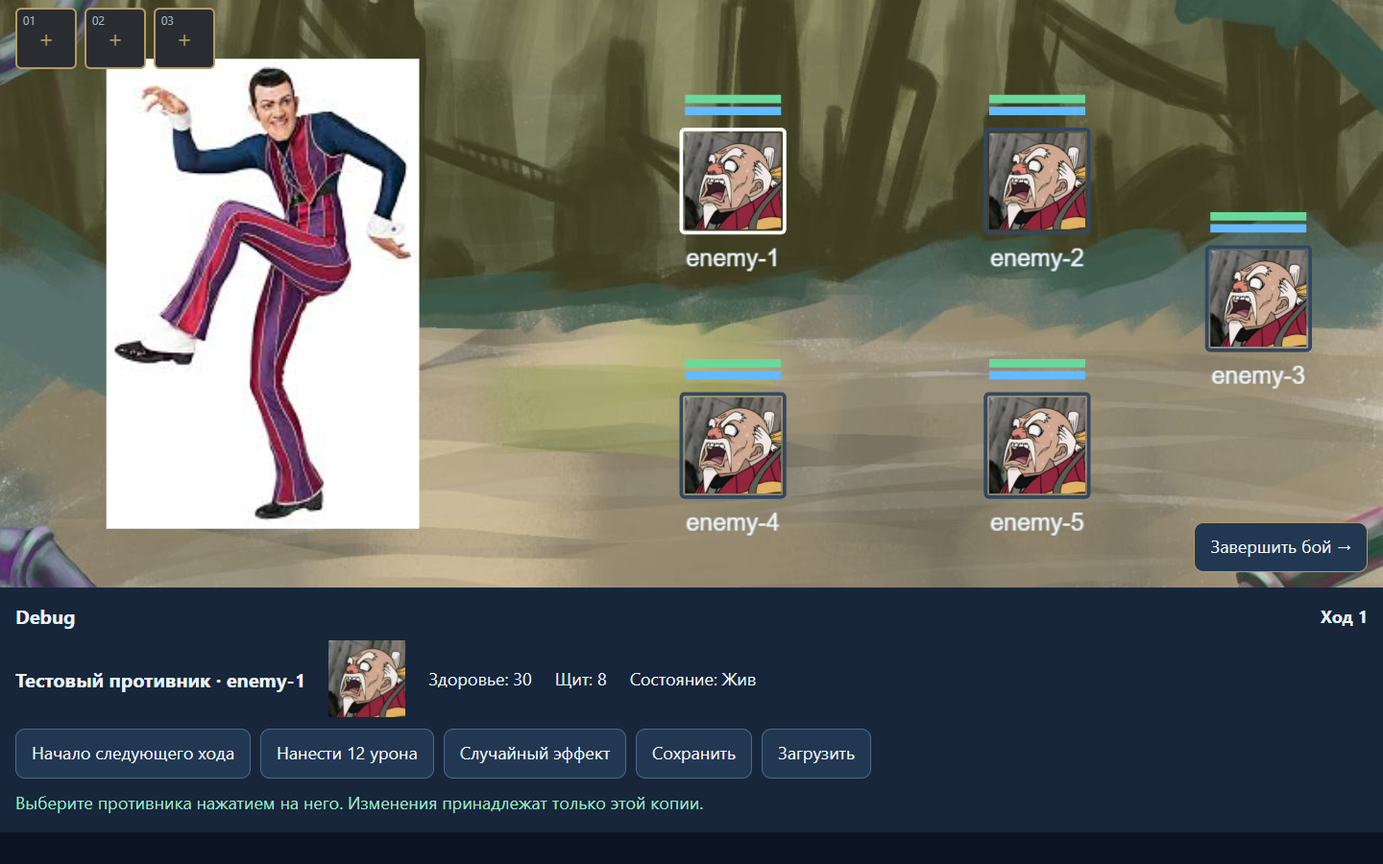
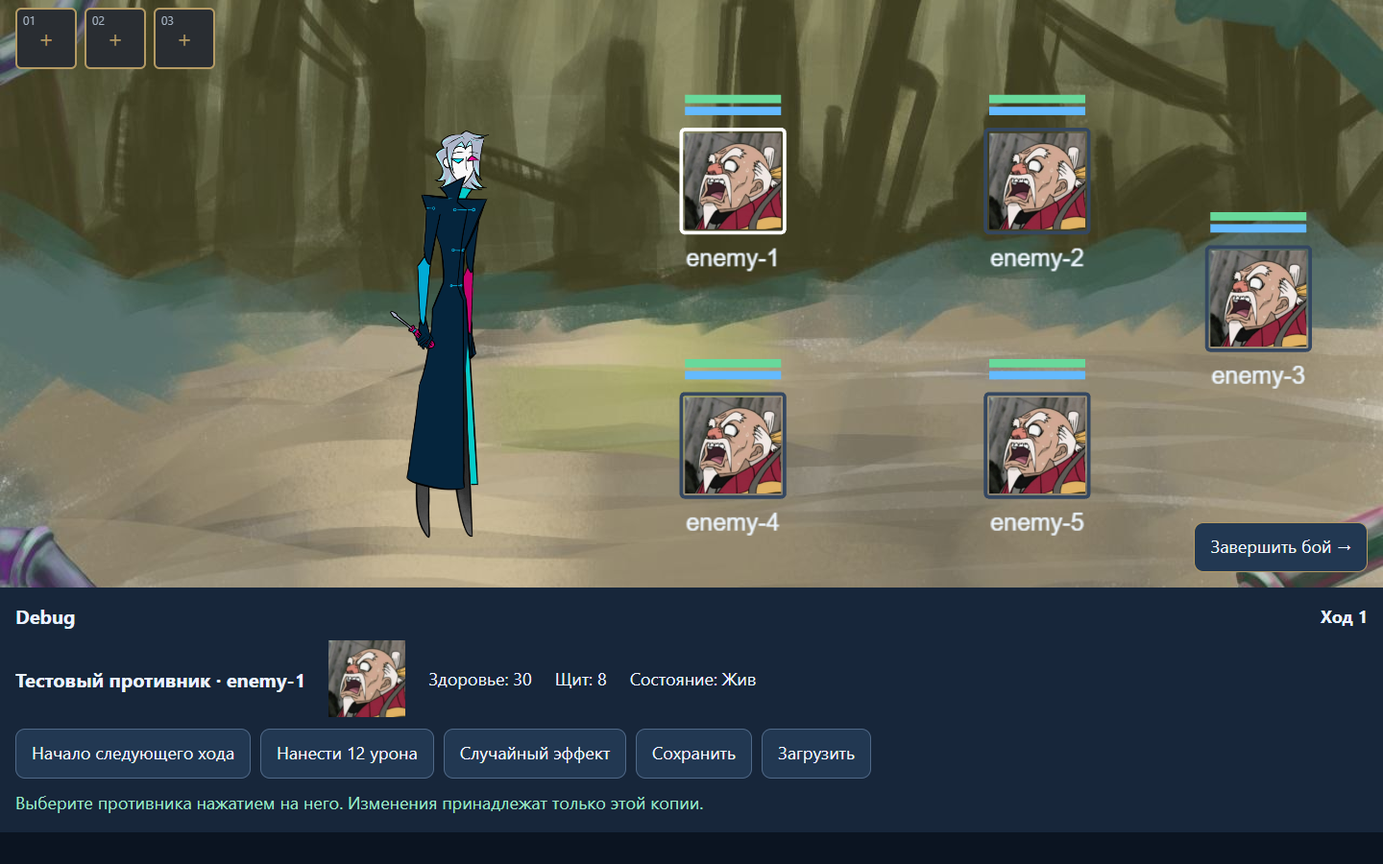
Animate the supplied hero frames in the marked battlefield position

Changed region(s): [[0.0625, 0.0622, 0.375, 0.6222]]

diff --git a/versions/0.1.0/src/main.ts b/versions/0.1.0/src/main.ts
@@ -6,6 +6,7 @@ import { createNPCView } from './enemies/view';
 import { InventoryController } from './inventory-controller';
 import { HoverCardController, type HoverCardAnchor } from './presentation/hover-card';
 import { createEnemyHoverCard, createItemHoverCard } from './presentation/entity-hover-cards';
+import { createHeroAnimation, HERO_FRAME_PATHS, placeHero } from './presentation/hero-animation';
 
 function requireElement<T extends HTMLElement>(id: string): T {
   const element = document.getElementById(id);
@@ -42,7 +43,9 @@ try {
     texture.baseTexture.once('loaded', () => { if (!disposed) render(); });
     return texture;
   }
-  const heroTexture = getTexture('images/test1.jpg');
+  const heroTextures = HERO_FRAME_PATHS.map(getTexture);
+  let hero: PIXI.AnimatedSprite | undefined;
+  app.ticker.add(delta => { if (hero?.playing) hero.update(delta); });
   const locationTexture = getTexture('images/battle-location.png');
   const observer = new ResizeObserver(() => {
     if (disposed) return;
@@ -52,7 +55,9 @@ try {
 
   function render(): void {
     if (disposed) return;
-    for (const child of app.stage.removeChildren()) child.destroy({ children: true });
+    for (const child of app.stage.removeChildren()) {
+      if (child !== hero) child.destroy({ children: true });
+    }
     const views = session.npcs.map(createNPCView);
     const width = app.screen.width;
     const height = app.screen.height;
@@ -62,12 +67,11 @@ try {
     background.position.set(width / 2, height / 2);
     background.eventMode = 'none';
     app.stage.addChild(background);
-    const hero = new PIXI.Sprite(heroTexture);
-    hero.anchor.set(0.5);
-    const heroScale = Math.min(width * 0.29 / heroTexture.width, height * 0.8 / heroTexture.height);
-    hero.scale.set(heroScale);
-    hero.position.set(width * 0.19, height * 0.5);
-    app.stage.addChild(hero);
+    if (!hero && heroTextures.every(texture => texture.valid)) hero = createHeroAnimation(heroTextures);
+    if (hero) {
+      placeHero(hero, width, height);
+      app.stage.addChild(hero);
+    }
     const slots = [[0.53, 0.30], [0.75, 0.30], [0.91, 0.5], [0.53, 0.75], [0.75, 0.75]];
     views.forEach((view, index) => {
       const container = new PIXI.Container();

diff --git a/versions/0.1.0/src/presentation/hero-animation.ts b/versions/0.1.0/src/presentation/hero-animation.ts
@@ -1,0 +1,32 @@
+import * as PIXI from 'pixi.js';
+
+export const HERO_FRAME_PATHS = Object.freeze([
+  'images/hero/Stand1.png', 'images/hero/Stand2.png', 'images/hero/Stand3.png',
+]);
+export const HERO_CYCLE_MS = 500;
+
+// One shared alpha union for all supplied frames keeps feet and padding stable.
+const frame = Object.freeze({ x: 144, y: 79, width: 229, height: 932 });
+
+/** Owned by the renderer; the application's ticker controls animation/lifecycle. */
+export function createHeroAnimation(textures: readonly PIXI.Texture[]): PIXI.AnimatedSprite {
+  if (textures.length !== HERO_FRAME_PATHS.length || textures.some(texture => !texture.valid)) {
+    throw new Error('Hero animation requires three loaded frames.');
+  }
+  const frames = textures.map(texture => ({
+    texture: new PIXI.Texture(texture.baseTexture, new PIXI.Rectangle(frame.x, frame.y, frame.width, frame.height)),
+    time: HERO_CYCLE_MS / textures.length,
+  }));
+  const hero = new PIXI.AnimatedSprite(frames, false);
+  hero.name = 'player-hero';
+  hero.anchor.set(0.5, 1);
+  hero.eventMode = 'none';
+  hero.play();
+  return hero;
+}
+
+/** The marked reference box: ~32% across, feet at ~92%, height ~69% of the scene. */
+export function placeHero(hero: PIXI.AnimatedSprite, width: number, height: number): void {
+  hero.scale.set(Math.min(width * 0.1054 / frame.width, height * 0.694 / frame.height));
+  hero.position.set(width * 0.318, height * 0.916);
+}

diff --git a/versions/0.1.0/src/presentation/images.ts b/versions/0.1.0/src/presentation/images.ts
@@ -5,6 +5,9 @@ import blindness from '../../../../assets/images/blindness.png';
 import stun from '../../../../assets/images/stun.jpg';
 import regeneration from '../../../../assets/images/regeneration.png';
 import battleLocation from '../../../../assets/images/battle-location.png';
+import stand1 from '../../../../assets/images/hero/Stand1.png';
+import stand2 from '../../../../assets/images/hero/Stand2.png';
+import stand3 from '../../../../assets/images/hero/Stand3.png';
 
 const images: Readonly<Record<string, string>> = Object.freeze({
   'images/test1.jpg': hero,
@@ -14,6 +17,9 @@ const images: Readonly<Record<string, string>> = Object.freeze({
   'images/stun.jpg': stun,
   'images/regeneration.png': regeneration,
   'images/battle-location.png': battleLocation,
+  'images/hero/Stand1.png': stand1,
+  'images/hero/Stand2.png': stand2,
+  'images/hero/Stand3.png': stand3,
 });
 export function resolveImage(path: string): string {
   const image = images[path];

diff --git a/versions/0.1.0/dev-support/project-docs/CURRENT_STATE.md b/versions/0.1.0/dev-support/project-docs/CURRENT_STATE.md
@@ -9,7 +9,7 @@
 ## Реализовано и принято
 
 - Активная версия 0.1.0, PixiJS 7.4.3; источники и locks определены PROJECT_MANIFEST/ENGINE_LOCK. Работаем над компьютерной версией, мобильный этап отдельно не поручен.
-- Сцена: test1 слева; пять независимых Enemy справа, изображение tes2. Выбор нажатием с белой обводкой, без кнопок выбора. HP/щит и маленькие иконки статусов над противниками; команды и параметры выбранного в debug-футере.
+- Сцена: герой с тремя прозрачными кадрами Stand1–Stand3 в отмеченной пользователем области; пять независимых Enemy справа, изображение tes2. Выбор нажатием с белой обводкой, без кнопок выбора. HP/щит и маленькие иконки статусов над противниками; команды и параметры выбранного в debug-футере.
 - JSON-ассет противника, отдельная запись тестовой атаки и реестр изображений: [ENEMIES](ENEMIES.md). Атака только числится, выполнение не реализовано.
 - Инвентарь: три активных слота, 12 карманов, награда и подготовка между боями; правила и ограничения принадлежат [INVENTORY](INVENTORY.md). Сохранение противников не сохраняет инвентарь.
 - Общие hover-карточки противников и предметов сохранены при объединении; данные берутся из общих view. Поле не сдвигается при открытии карточки.
@@ -29,6 +29,8 @@
 Реализовано: absolute-слой для слотов/карманов и кнопки стадий; отдельная колонка удалена, ввод в свободных промежутках проходит к сцене. Кнопка находится внутри границ боевой зоны, а не влияет на высоту debug-футера. Предоставленный PNG скопирован неизменным в assets/images/battle-location.png, зарегистрирован по SHA-256 и встроен в images.ts. main.ts рисует его первым неинтерактивным спрайтом с сохранением пропорций и заполнением всей зоны (cover). Формулы размещения и масштаба героя/противников, модель предметов и правила стадий не менялись.
 
 Working set: src/style.css, index.html, main.ts, presentation/images.ts; новый PNG и RESOURCE_REGISTRY; INVENTORY, CODE_MAP, DOCUMENTATION_INDEX, CURRENT_STATE и qa/INVENTORY_OVERLAY с raw JSON/скриншотами. Проверки: npm run check — passed (typecheck, 13 тестов модели, 8 тестов синхронизации, offline build, validate); desktop HTTP/изолированный file:// в 1280×720 и 1440×900 — passed. При скрытии/показе всех слоёв и в цикле стадий координаты/размеры сцены, canvas, debug-панели, документа и прокрутки одинаковы. Пиксели всех пяти противников до/после карманов совпадают; фон покрывает верх/низ зоны с погрешностью контрольных пикселей 0–2 RGB. Выдача/drag/обмен/блокировка работают; ошибок и внешних runtime-запросов нет.
+
+Дополнительное прямое поручение: заменить героя на Stand1–Stand3, поместить в красную область референса и проигрывать полный цикл за 0,5 секунды. Реализован общий renderer-builder presentation/hero-animation.ts: одинаковый UV-прямоугольник объединённой альфы, длительность 500 мс на три кадра, якорь по ногам и положение относительно боевой зоны. main.ts сохраняет AnimatedSprite между render и обновляет его только своим тикером. Кадры скопированы без изменения пикселей, зарегистрированы в реестре и встраиваются в offline HTML. Проверены детерминированные границы 150/170/340/499/501 мс, реальные полные циклы около 500 мс, сохранение экземпляра при render и переносы предметов в desktop HTTP/file. Документ/доказательства: HERO_ANIMATION.md и qa/HERO_ANIMATION.md, hero-idle-results.json.
 
 Следующий шаг: безопасно объединить проверенную правку с завершёнными изменениями общей папки, выполнить проверку объединённого результата и обычный push main. Чужие незавершённые правки не включать в commit инвентаря и не перезаписывать. Runtime-артефакт остаётся versions/gamejam_0.1.0-offline.html; новая версия/deploy не поручены.
 

diff --git a/versions/0.1.0/dev-support/project-docs/HERO_ANIMATION.md b/versions/0.1.0/dev-support/project-docs/HERO_ANIMATION.md
@@ -1,0 +1,11 @@
+# Герой: положение и idle-анимация
+
+Прямое поручение пользователя 2026-10-30: заменить временного героя тремя предоставленными кадрами Stand1.png, Stand2.png, Stand3.png, разместить в красной области референса и проигрывать полный цикл за 0,5 секунды.
+
+Оригинальные прозрачные PNG скопированы без изменения пикселей в assets/images/hero. Все три файла имеют холст 548×1025; SHA-256 и источник записаны в RESOURCE_REGISTRY. images.ts встраивает их в автономный HTML. Старая тестовая картинка не удаляется, но больше не используется для героя на сцене.
+
+Владелец визуальной композиции — src/presentation/hero-animation.ts: пути кадров, длительность всего цикла, единая область обрезки прозрачных полей, создание AnimatedSprite и положение по пропорциям отмеченной области. Общая область — объединение ненулевой альфы всех трёх кадров; одинаковое кадрирование удерживает ноги на месте и сохраняет естественное движение головы/плаща. Обрезка выполняется UV-прямоугольником текстуры, исходные файлы не переписываются. Положение и размер берутся относительно текущей боевой зоны; пропорции персонажа сохранены.
+
+Порядок цикла: Stand1 → Stand2 → Stand3 → Stand1. Каждому кадру выделена треть общей длительности; 0,5 секунды относится ко всему циклу. Анимация обновляется тикером приложения, а не общим Ticker.shared. Существующая остановка приложения при скрытии страницы останавливает и анимацию. Живой AnimatedSprite принадлежит renderer и сохраняется при перерисовке выбора/статусов, переносах и переключении стадий; повторного старта на каждом render нет. При закрытии уничтожается вместе со сценой.
+
+Это отдельное разрешённое изменение положения героя. Наложение инвентаря по-прежнему не меняет геометрию боевой зоны и остальных юнитов. Проверки: [HERO_ANIMATION](../qa/HERO_ANIMATION.md).

diff --git a/versions/0.1.0/dev-support/project-docs/INVENTORY.md b/versions/0.1.0/dev-support/project-docs/INVENTORY.md
@@ -39,3 +39,5 @@
 Инвентарь теперь расположен в абсолютном слое: три компактных активных слота вверху слева, карманы под ними поверх героя, кнопка стадий внизу справа внутри боевой зоны. Скрытие/показ слоёв не выделяет место в grid/flex и не меняет ширину/высоту сцены. Неинтерактивные промежутки слоя пропускают ввод к сцене; слоты и открытые карманы принимают свой ввод. Прежний видимый заголовок активных слотов остаётся доступным для screen reader, чтобы компактная строка не закрывала героя в бою. Формулы масштаба и расстановки юнитов не менялись.
 
 Фон локации — предоставленный пользователем assets/images/battle-location.png. Реестр presentation/images.ts отдаёт встроенный data URI; main.ts рисует фон первым неинтерактивным спрайтом, центрируя и сохраняя пропорции с заполнением всей высоты/ширины зоны (cover). Правила получения/переноса предметов не меняются. Подтверждённые проверки: [INVENTORY_OVERLAY](../qa/INVENTORY_OVERLAY.md).
+
+По следующему прямому поручению герой заменён трёхкадровой анимацией и перемещён в отмеченную область справа от карманов. Это самостоятельное изменение героя, а не сдвиг сцены при открытии инвентаря; его владелец и проверки — [HERO_ANIMATION](HERO_ANIMATION.md).

diff --git a/versions/0.1.0/dev-support/qa/HERO_ANIMATION.md b/versions/0.1.0/dev-support/qa/HERO_ANIMATION.md
@@ -1,0 +1,11 @@
+# Проверка героя — 2026-10-30
+
+Desktop Chromium/SwiftShader на Windows. Проверены HTTP 1440×900 и прямой file:// 1280×720.
+
+- Три исходных PNG декодированы с прозрачностью; общий размер и UV-область совпадают между кадрами. Пропорции/ноги стабильны, герой находится в указанной пользователем области справа от карманов.
+- Тем же экспортированным builder проверены границы цикла: через 150 мс кадр 1, 170 мс кадр 2, 340 и 499 мс кадр 3, 501 мс снова кадр 1. Общая длительность — 500 мс, кадров — три, autoUpdate через общий тикер выключен.
+- На реальном AnimatedSprite сцены измерены последовательные возвраты к первому кадру; полные циклы близки к 500 мс с дискретностью кадров браузера. Начальный неполный интервал при возобновлении не учитывается.
+- Перерисовки по команде хода сохраняют тот же экземпляр героя. Награда → перенос в слот → бой работают; положение/размер героя задаются относительно той же неизменной зоны.
+- Ошибок pageerror/console.error, в том числе при закрытии страницы, нет. Оригиналы PNG не редактируются.
+
+Raw: [hero-idle-results.json](hero-idle-results.json). Вид: hero-idle-combat.png, hero-idle-preparation.png. Проверка измеряет анимацию и визуальное размещение; новые боевые механики героя не добавлены.

diff --git a/versions/0.1.0/dev-support/DOCUMENTATION_INDEX.md b/versions/0.1.0/dev-support/DOCUMENTATION_INDEX.md
@@ -43,6 +43,12 @@ summary: Проверка инвентаря: модель, mouse/touch/keyboard
 file: `dev-support/qa/INVENTORY_OVERLAY.md`
 summary: Инвентарь поверх боевой сцены без сдвига: desktop HTTP/file, неизменная геометрия/пиксели противников, фон на всю высоту зоны.
 
+file: `dev-support/project-docs/HERO_ANIMATION.md`
+summary: Три прозрачных кадра героя, цикл 0,5 секунды, владелец визуального размещения и lifecycle.
+
+file: `dev-support/qa/HERO_ANIMATION.md`
+summary: Проверка длительности цикла, устойчивого экземпляра и положения героя в desktop HTTP/file.
+
 file: `dev-support/standards/INFO_OBJECT_RULES.md`
 summary: Базовый набор; до изменения сущностей/каталогов/связей/сохранений.
 

diff --git a/versions/0.1.0/dev-support/project-docs/CODE_MAP.md b/versions/0.1.0/dev-support/project-docs/CODE_MAP.md
@@ -26,5 +26,6 @@
 | JSON-ассеты Enemy/Attack | корень assets/enemies, assets/attacks; src/enemies/enemy.ts, attack.ts | EnemySession, loadSession, tests/domain.test.ts |
 | Изображения и упаковка | корень assets/images; src/presentation/images.ts; tools/build.mjs JPG/PNG dataurl | main.ts, offline/HTTP |
 | Фон боевой зоны и наложение инвентаря | assets/images/battle-location.png; main.ts первый спрайт; style.css absolute-слои | qa/INVENTORY_OVERLAY.md; сцену и юнитов не смещают |
+| Герой: три кадра/idle/положение | src/presentation/hero-animation.ts; createHeroAnimation, placeHero | main.ts renderer/тикер; HERO_ANIMATION.md; qa/HERO_ANIMATION.md |
 
 Контракт противников: [ENEMIES](ENEMIES.md). Проверки объединённой сцены: [SCENE_ASSETS](../qa/SCENE_ASSETS.md).
